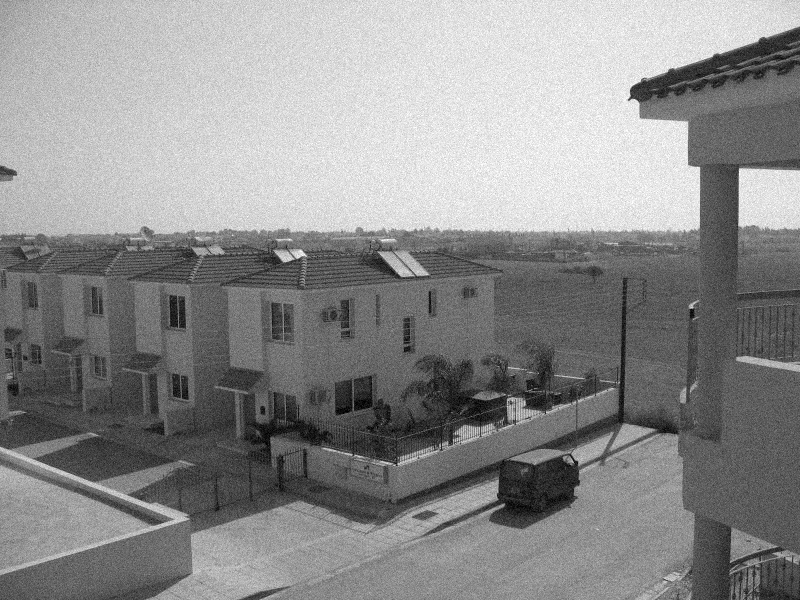
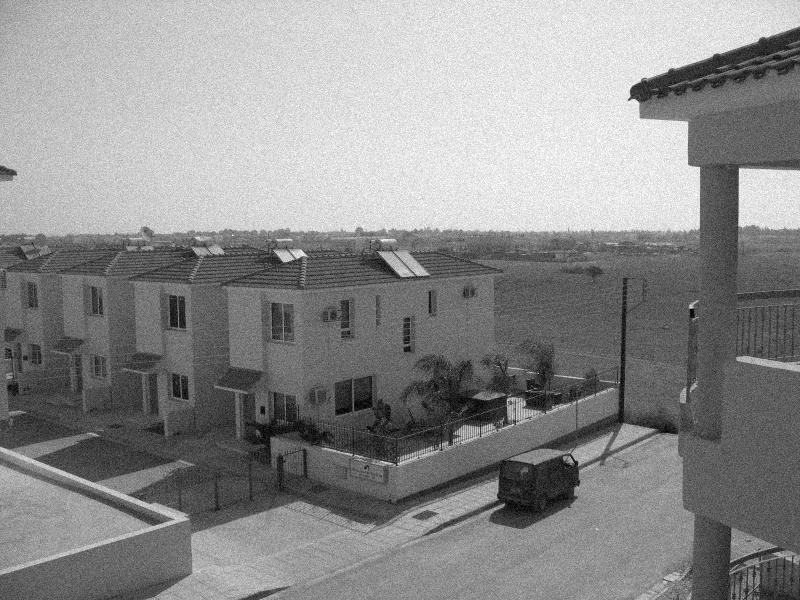
Tried using the restore function

diff --git a/lecture_11/lecture_11_743.m b/lecture_11/lecture_11_743.m
@@ -8,3 +8,7 @@ end
 blurred = arrayfun(@(z) uint8(blur_image(double(z), 100)), I);
 
 imwrite(blurred, "blurred.png");
+
+recovered = arrayfun(@(z) uint8(restore_image(double(z), 100, 200, 0.02, 10)), blurred);
+
+imwrite(recovered, "recovered.png");

diff --git a/lecture_11/restore_image.m b/lecture_11/restore_image.m
@@ -76,8 +76,6 @@ for i = 1 : iterations
             buffer(r,c,d) = min_val;
         end
     end
-
-    i
 end
 
 dst = buffer(:,:,d);
